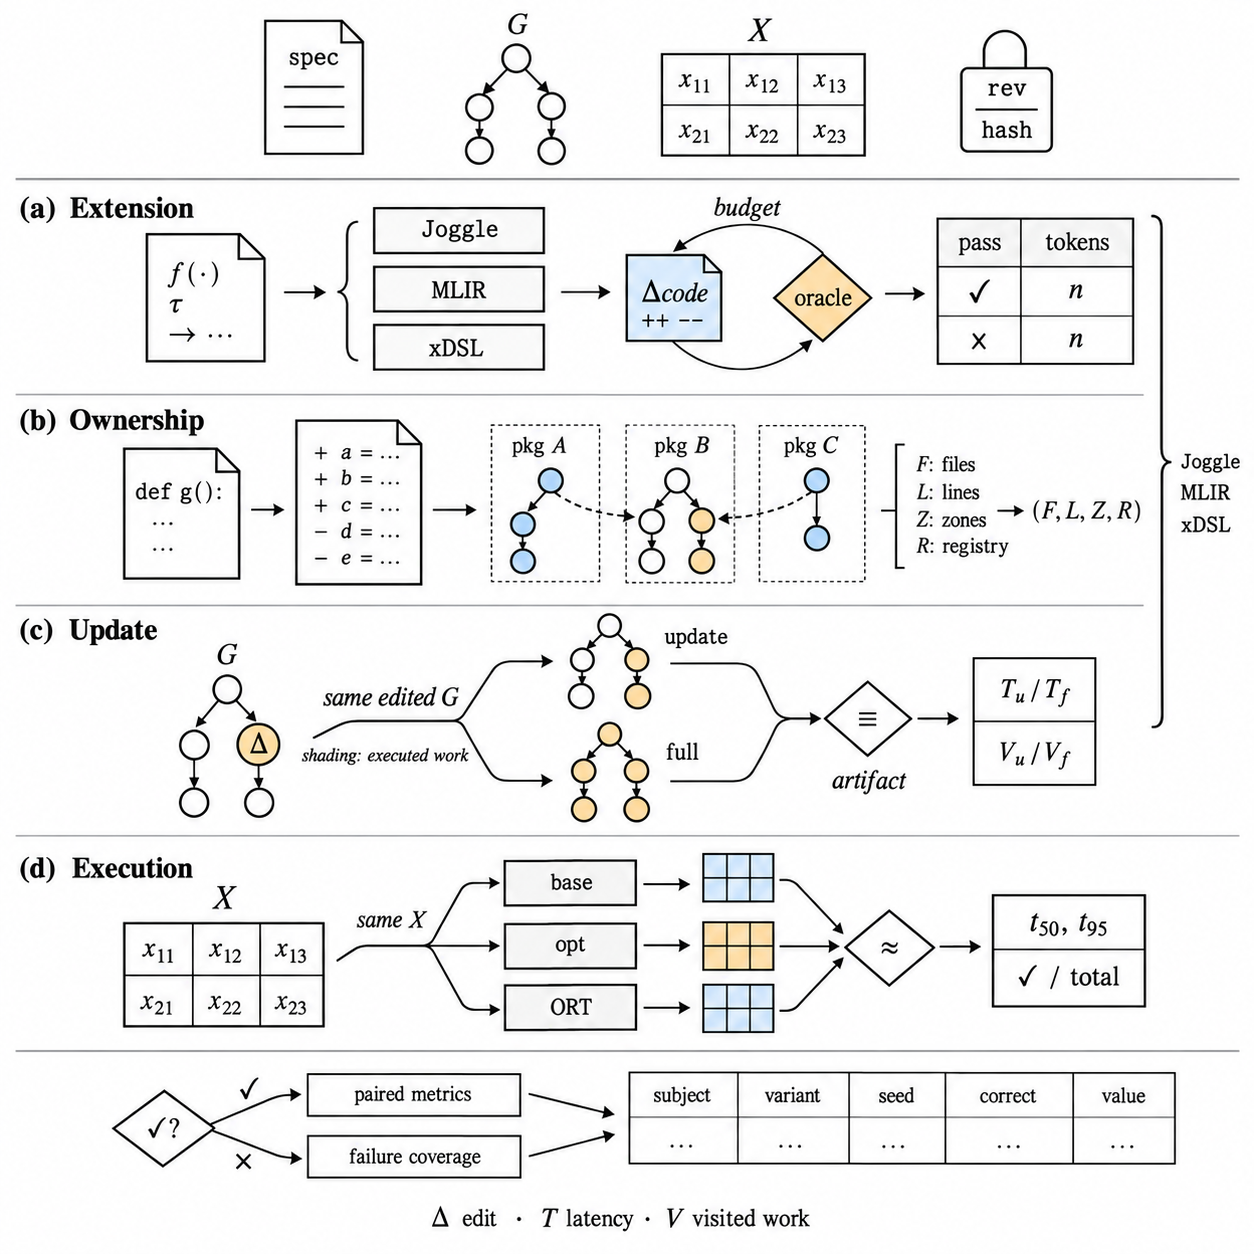
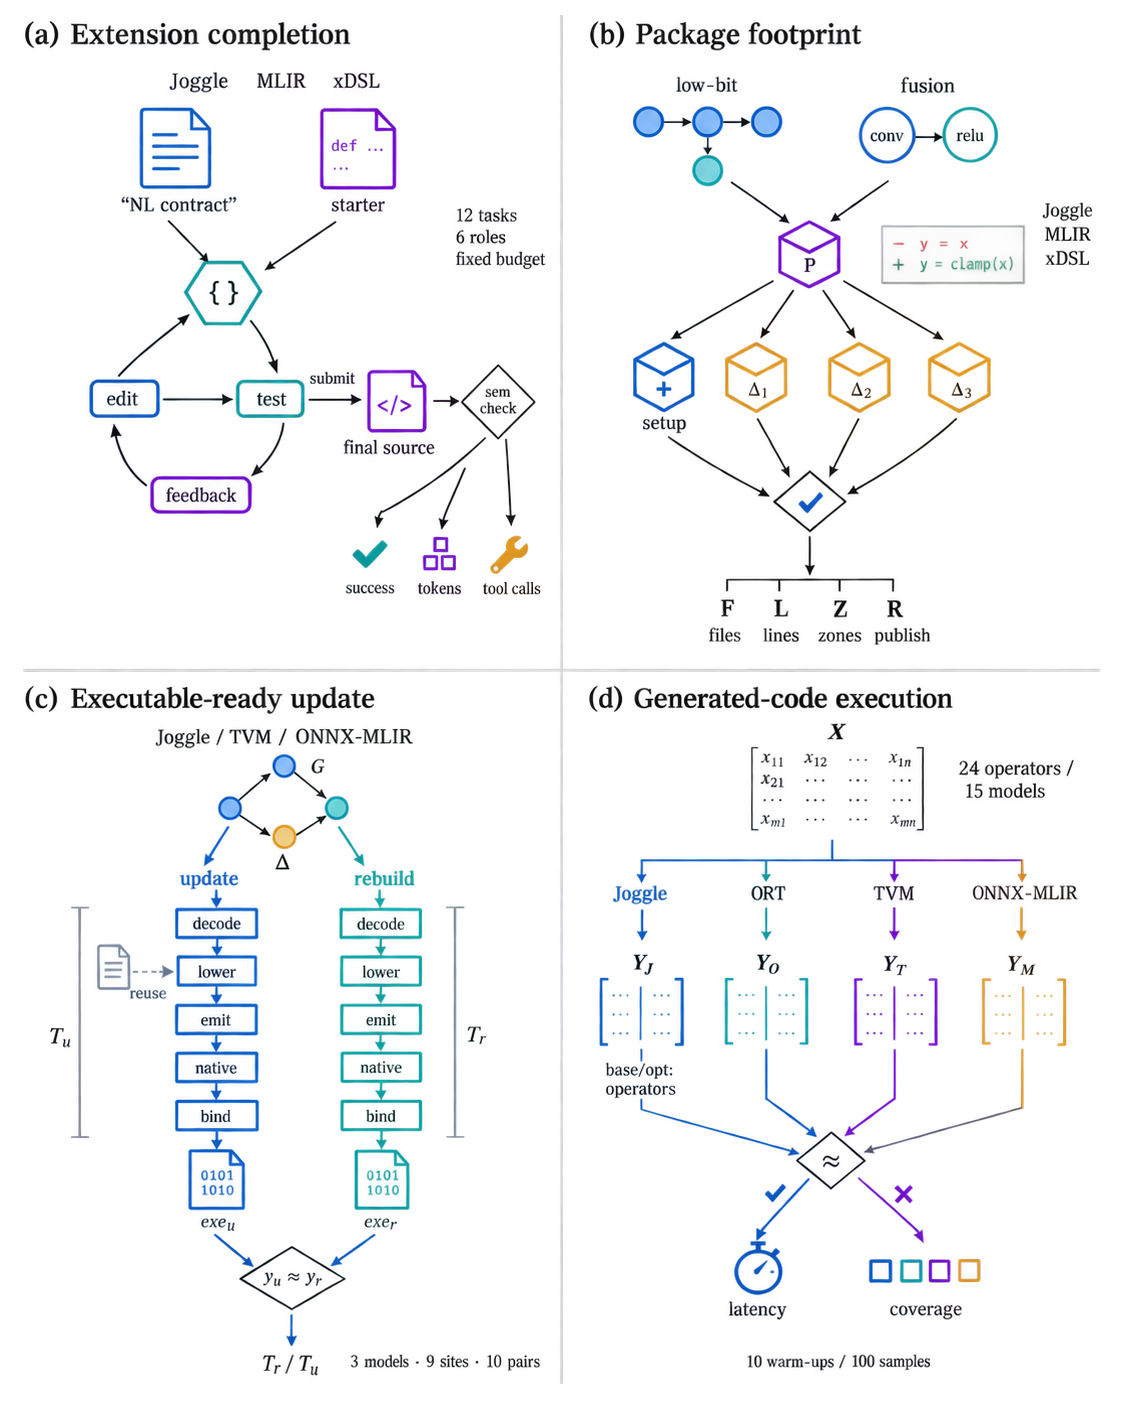
paper: compact comparison table and distinguish evaluation workflows

diff --git a/paper/sections/05-related-work.tex b/paper/sections/05-related-work.tex
@@ -1,40 +1,57 @@
 \section{Related Work}
 \label{sec:related}
 
-Table~\ref{tab:related} compares compiler and incremental systems by their
-programmable units, composition boundaries, and dependency mechanisms.
+Table~\ref{tab:related} places extension interfaces, ownership boundaries, and
+update mechanisms side by side. Its final rows connect these abstractions to
+the measured cost of integrating the two cross-stage packages in
+Section~\ref{sec:eval-controllable}.
 
 \begin{table*}[t]
-  \caption{Programmable units and dependency mechanisms. The two bands share
-  comparison dimensions; entries name mechanisms rather than capability scores.}
+  \caption{Extension and update mechanisms, with package integration footprints.
+  Numeric pairs report low-bit arithmetic / convolution fusion.
+  $\checkmark$: separate registration code; $\times$: none;
+  ---: not measured. Source counts include publication declarations.}
   \label{tab:related}
-  \normalsize
-  \setlength{\tabcolsep}{4pt}
-  \renewcommand{\arraystretch}{1.08}
-  \begin{tabularx}{\textwidth}{@{}>{\raggedright\arraybackslash}p{0.14\textwidth}*{5}{>{\raggedright\arraybackslash}X}@{}}
+  \fontsize{8}{10}\selectfont
+  \setlength{\tabcolsep}{2.4pt}
+  \renewcommand{\arraystretch}{1.13}
+  \definecolor{ComparisonBlue}{RGB}{0,82,128}
+  \definecolor{ComparisonTint}{RGB}{239,248,251}
+  \newcommand{\workref}[2]{\mbox{#1\textsuperscript{\cite{#2}}}}
+  \newcommand{\groupname}[1]{\multicolumn{10}{@{}l@{}}{\color{ComparisonBlue}\bfseries #1}\\[-1pt]}
+  \begin{tabular*}{\textwidth}{@{\extracolsep{\fill}}l*{8}{c}>{\columncolor{ComparisonTint}\bfseries}c@{}}
     \toprule
-    & MLIR\newline\cite{lattner2021mlir,mlirpass}
-    & xDSL\newline\cite{fehr2025xdsl}
-    & TVM\newline\cite{chen2018tvm,feng2022tensorir}
-    & Exo 2\newline\cite{ikarashi2025exo2} & \textbf{Joggle} \\
+    & \workref{MLIR}{lattner2021mlir}
+    & \workref{xDSL}{fehr2025xdsl}
+    & \workref{TVM}{chen2018tvm}
+    & \workref{Exo 2}{ikarashi2025exo2}
+    & \workref{Transform}{lucke2025transform}
+    & \workref{egg}{willsey2021egg}
+    & \workref{rustc}{rustcincremental}
+    & \workref{Adapton}{hammer2014adapton}
+    & \textcolor{ComparisonBlue}{Joggle} \\
     \midrule
-    Programming & C++ / ODS & Python & Python / C++ & Python & \textbf{Typed jog calls} \\
-    Composition & Dialects, passes & Dialects, passes & Tensor programs, schedules & Scheduling libraries & \textbf{Cross-stage mods} \\
-    References & Operations, values & Operations, values & Tensor blocks & Cursors & \textbf{Typed graph handles} \\
-    Dependency mechanism & Analysis preservation & SSA use-def links & Dataflow, schedules & Cursor forwarding & \textbf{Reads, effects, revisions} \\
+    \groupname{Interfaces}
+    Extension language & C++/ODS & Python & Py/C++ & Python & IR & Rust & Rust & Host & jog \\
+    Programmable unit & Operation & Operation & Block & Schedule & Transform & Rewrite & Query & Thunk & Function \\
+    \addlinespace[2pt]
+    \groupname{Ownership}
+    Composition unit & Dialect & Dialect & Program & Library & Sequence & Rule set & Query & Thunk & mod \\
+    References & Values & Values & Blocks & Cursors & Handles & E-classes & Keys & Thunks & Typed handles \\
+    \addlinespace[2pt]
+    \groupname{Updates}
+    Dependency carrier & Analysis & SSA links & Dataflow & Cursor & Handle & E-class & Query DAG & Demand DAG & Read/effect \\
+    Change mechanism & Preserve & Use-def & Schedule & Forward & Effects & Rebuild & Red-green & Demand & Revision \\
     \midrule
-    & Transform\newline\cite{lucke2025transform}
-    & \texttt{egg}\newline\cite{willsey2021egg}
-    & rustc\newline\cite{rustcincremental}
-    & Adapton\newline\cite{hammer2014adapton}
-    & Build systems\newline\cite{mokhov2018build} \\
-    \midrule
-    Programming & Transform IR & Rust rules & Rust queries & Host-language API & Task rules \\
-    Composition & Transform operations & Rewrite rules & Query calls & Thunk calls & Build rules \\
-    References & Payload handles & E-classes & Query keys & Thunks & Task keys \\
-    Dependency mechanism & Handle effects & E-class rebuilding & Red-green query DAG & Demanded computation graph & Task dependency graph \\
+    \groupname{Measured package integration (Section~\ref{sec:eval-controllable})}
+    Source files $\downarrow$ & 3 / 3 & 3 / 3 & --- & --- & --- & --- & --- & --- & 1 / 1 \\
+    Source lines $\downarrow$ & 193 / 178 & 122 / 125 & --- & --- & --- & --- & --- & --- & 69 / 77 \\
+    Registration code & $\checkmark$ & $\checkmark$ & --- & --- & --- & --- & --- & --- & $\times$ \\
     \bottomrule
-  \end{tabularx}
+  \end{tabular*}
+  \par\vspace{2pt}\raggedright
+  The mechanism rows describe the cited abstraction; the numeric rows compare
+  native packages implementing the same two features.
 \end{table*}
 
 \subsection{Compiler Construction and Composition}

diff --git a/paper/sections/04-evaluation.tex b/paper/sections/04-evaluation.tex
@@ -56,12 +56,14 @@ aggregating measurements.
 \begin{figure}[!tbp]
   \centering
   \includegraphics[width=\columnwidth]{figures/evaluation-workflow.png}
-  \caption{Four paired comparisons. Shared specifications, edited graphs,
-  and tensors align inputs; correctness gates measurements while failures
-  remain in coverage. Update shading denotes executed work.}
-  \Description{Four compact experiment lanes show agent repair, patch
-  footprint, paired update and full rerun, and numerical execution comparison.
-  Passing and failing cases are both retained in source records.}
+  \caption{Experimental protocols. Package edits share one parent; update
+  timing includes native compilation and binding. The reuse path denotes
+  Joggle's prepared bodies. Correct outputs enter latency ratios; all outcomes
+  enter coverage.}
+  \Description{Four independent panels depict an agent repair loop, package
+  edits branching from the same parent, paired vertical compilation timelines,
+  and parallel backend execution. Measurements retain both successful and
+  failed cases, with latency ratios formed only from correct outputs.}
   \label{fig:eval-workflow}
 \end{figure}
 

diff --git a/paper/sigconf.tex b/paper/sigconf.tex
@@ -31,6 +31,7 @@
 \usepackage{algpseudocode}
 \usepackage{amsmath}
 \usepackage{tabularx}
+\usepackage{colortbl}
 
 %% Keep a full-column diagram and a long algorithm out of the same top stack.
 \setcounter{topnumber}{1}

diff --git a/paper/README.md b/paper/README.md
@@ -640,23 +640,30 @@ Figure 6 shows the paired design: shared feature specifications for extension
 and ownership, the same edited graph for updates, and identical tensors for
 execution. Each path checks correctness before aggregating measurements.
 
-<!-- FIGURE 6 PROMPT — evaluation-workflow.png. Original dense square
-single-column protocol schematic, fine black rules, white background, small
-serif math labels and monospace annotations. Independent source glyphs for
-specification, graph G, tensor X and revision/hash. Four compact rows:
-(a) native function/type specification → Joggle/MLIR/xDSL → budgeted code/oracle
-repair loop → pass/tokens; (b) feature patch hunks and package dependency
-boundaries → (F,L,Z,R); (c) same edited G forks into update/full compilation,
-replacement executables and output-tensor check → Tu and Tu/Tf;
-(d) same X forks into Joggle/ORT/TVM/ONNX-MLIR, numerical comparison →
-median/p95 and correct/total. Label extension and ownership rows
-Joggle/MLIR/xDSL; label update row Joggle/TVM/ONNX-MLIR. Success/failure branches
-both retain CSV records. This is a protocol, not numerical results. No
-fabricated bar charts, percentages, prose boxes, large headers or gradients. -->
+<!-- FIGURE 6 PROMPT — evaluation-workflow.png. Built-in image generation.
+Create a NEW original technical figure showing four compiler evaluation protocols. Borrow ONLY this palette: dark blue #0057B8, teal #12B5B0, purple #7928CA, amber #E6AD48. No reference layout is supplied or should be imitated.
 
-*Figure 6: Four paired comparisons. Shared specifications, edited graphs,
-and tensors align inputs; correctness gates measurements while failures
-remain in coverage. Update shading denotes executed work.*
+ORIGINAL LAYOUT: a compact 2-by-2 set of four experiment vignettes on a single pure white portrait canvas, aspect ratio 4:5. Small neutral black serif panel headings (a), (b), (c), (d). A very thin light-gray vertical divider and a short horizontal divider separate quadrants. NO panel boxes, NO colored panel fills, NO table grid, NO column headings, NO full-width header or footer, NO problem/solution rows, NO repeated rectangular card frames. Each vignette has its OWN scientifically meaningful internal topology with mostly TOP-TO-BOTTOM flow. Precise fine strokes, small black serif/math labels, compact monospace micro-annotations, tiny graph symbols. All forms 2D, flat, fully opaque, white background. No black filled regions, no shadows, no texture, no photographic decoration. Information-dense, almost no empty margins.
+
+TOP LEFT (a) "Extension completion":
+At top place three tiny unboxed system names "Joggle   MLIR   xDSL". Then a small quoted document “NL contract” beside a tiny code document “starter”. They converge on an agent represented ONLY by a small outlined hexagon with {} inside, not a big cartoon robot. Below, a compact triangular directed loop: “edit” -> “test” -> “feedback” -> “edit”. At the test node a rightward exit labelled “submit” leads to a final source-file symbol, then a small semantic-check diamond. Beneath it three aligned tiny outputs labelled “success”, “tokens”, “tool calls”, with checkmark, token-square, and wrench symbols respectively. Tiny side annotations “12 tasks”, “6 roles”, “fixed budget”. No invented outcomes or fake result rows.
+
+TOP RIGHT (b) "Package footprint":
+Two small input symbols at top: an operator graph labelled “low-bit” and a tiny conv->relu graph labelled “fusion”. Under them a small outline package symbol P. From P, visibly fork FOUR independent arrows: one to a tiny plus-marked package labelled “setup”, three to tiny amber-diff packages labelled “Δ1”, “Δ2”, “Δ3”. These are independent changes, not a chain. Each package output connects to a shared oracle diamond with a small checkmark. Below show a very compact four-column tally strip “F  L  Z  R” and directly below “files  lines  zones  publish”. Side annotation “Joggle / MLIR / xDSL”. Include a tiny two-line code diff + / −, no fabricated numeric measurements, no .cpp or .mlir filenames.
+
+BOTTOM LEFT (c) "Executable-ready update":
+At top “Joggle / TVM / ONNX-MLIR” in tiny type and a small four-node directed diamond DAG G with one amber node Δ.
+Fork the edited graph into TWO VERTICAL TRACKS, left labelled “update”, right “rebuild”. EACH track has a sequence of FIVE tiny rectangular stage glyphs labelled “decode”, “lower”, “emit”, “native”, “bind”. Draw small blue/teal accents along both paths; a small gray prepared-body icon joins ONLY the update track at “lower”, labelled “reuse”. Enclose neither track in a big box. Instead draw slim vertical timing brackets BESIDE the full tracks from decode through bind, labelled Tᵤ and Tᵣ. Each track ends in its own executable symbol. Both converge on an output-check diamond “yᵤ ≈ yᵣ”. Bottom output “Tᵣ / Tᵤ”. Tiny footnote “3 models · 9 sites · 10 pairs”. Do not omit native compile or binding. The reuse icon illustrates Joggle's prepared bodies, not a claim about all backends.
+
+BOTTOM RIGHT (d) "Generated-code execution":
+At top a small matrix X, with side note “24 operators / 15 models”. X fans out to FOUR short VERTICAL parallel paths, with narrow backend labels “Joggle”, “ORT”, “TVM”, “ONNX-MLIR” placed horizontally above the paths, do not rotate text. Each path ends in its own small output matrix Y. All four output matrices merge at a diamond “≈”. From the diamond branch downward: checkmark path to a stopwatch icon “latency”; BOTH check and cross paths to four little outlined squares “coverage”. Beneath, tiny micro-annotation “10 warm-ups / 100 samples”. A very small label under the Joggle path “base/opt: operators”. No data charts or made-up numerical results.
+
+The four different flow topologies must be unmistakable: a repair LOOP, an independent-edit FAN-OUT, two paired VERTICAL TIMELINES, and parallel backend EXECUTION PATHS. This is not a capability comparison diagram and must not resemble a 3-column challenge-solution-benefit table. Keep balanced aligned quadrants but do not force every quadrant into one shared input/procedure/output template. Use small typography and compact layout. Render only the figure, without caption.
+-->
+
+*Figure 6: Experimental protocols. Package edits share one parent; update
+timing includes native compilation and binding. The reuse path denotes Joggle's
+prepared bodies. Correct outputs enter latency ratios; all outcomes enter coverage.*
 
 ### 4.2 Agent Extension Completion
 
@@ -951,25 +958,31 @@ separately.
 
 ## 5. Related Work
 
-Table 2 compares compiler and incremental systems by their programmable
-units, composition boundaries, and dependency mechanisms.
+Table 2 places extension interfaces, ownership boundaries, and update mechanisms
+side by side. Its final rows connect these abstractions to the measured cost of
+integrating the two cross-stage packages in Section 4.3.
 
-| Dimension | MLIR [@lattner2021mlir; @mlirpass] | xDSL [@fehr2025xdsl] | TVM [@chen2018tvm; @feng2022tensorir] | Exo 2 [@ikarashi2025exo2] | **Joggle** |
-| --- | --- | --- | --- | --- | --- |
-| Programming | C++ / ODS | Python | Python / C++ | Python | **Typed jog calls** |
-| Composition | Dialects, passes | Dialects, passes | Tensor programs, schedules | Scheduling libraries | **Cross-stage mods** |
-| References | Operations, values | Operations, values | Tensor blocks | Cursors | **Typed graph handles** |
-| Dependency mechanism | Analysis preservation | SSA use-def links | Dataflow, schedules | Cursor forwarding | **Reads, effects, revisions** |
+| Dimension | MLIR [@lattner2021mlir; @mlirpass] | xDSL [@fehr2025xdsl] | TVM [@chen2018tvm; @feng2022tensorir] | Exo 2 [@ikarashi2025exo2] | Transform [@lucke2025transform] | egg [@willsey2021egg] | rustc [@rustcincremental] | Adapton [@hammer2014adapton] | **Joggle** |
+| --- | --- | --- | --- | --- | --- | --- | --- | --- | --- |
+| **Interfaces** | | | | | | | | | |
+| Extension language | C++/ODS | Python | Py/C++ | Python | IR | Rust | Rust | Host | **jog** |
+| Programmable unit | Operation | Operation | Block | Schedule | Transform | Rewrite | Query | Thunk | **Function** |
+| **Ownership** | | | | | | | | | |
+| Composition unit | Dialect | Dialect | Program | Library | Sequence | Rule set | Query | Thunk | **mod** |
+| References | Values | Values | Blocks | Cursors | Handles | E-classes | Keys | Thunks | **Typed handles** |
+| **Updates** | | | | | | | | | |
+| Dependency carrier | Analysis | SSA links | Dataflow | Cursor | Handle | E-class | Query DAG | Demand DAG | **Read/effect** |
+| Change mechanism | Preserve | Use-def | Schedule | Forward | Effects | Rebuild | Red-green | Demand | **Revision** |
+| **Measured package integration** | | | | | | | | | |
+| Source files ↓ | 3 / 3 | 3 / 3 | — | — | — | — | — | — | **1 / 1** |
+| Source lines ↓ | 193 / 178 | 122 / 125 | — | — | — | — | — | — | **69 / 77** |
+| Registration code | ✓ | ✓ | — | — | — | — | — | — | **×** |
 
-| Dimension | Transform [@lucke2025transform] | egg [@willsey2021egg] | rustc [@rustcincremental] | Adapton [@hammer2014adapton] | Build systems [@mokhov2018build] |
-| --- | --- | --- | --- | --- | --- |
-| Programming | Transform IR | Rust rules | Rust queries | Host-language API | Task rules |
-| Composition | Transform operations | Rewrite rules | Query calls | Thunk calls | Build rules |
-| References | Payload handles | E-classes | Query keys | Thunks | Task keys |
-| Dependency mechanism | Handle effects | E-class rebuilding | Red-green query DAG | Demanded computation graph | Task dependency graph |
-
-*Table 2: Programmable units and dependency mechanisms. The two bands share
-comparison dimensions; entries name mechanisms rather than capability scores.*
+*Table 2: Extension and update mechanisms, with package integration footprints.
+Numeric pairs report low-bit arithmetic / convolution fusion. ✓: separate
+registration code; ×: none; —: not measured. Source counts include publication
+declarations. The mechanism rows describe the cited abstraction; the numeric
+rows compare native packages implementing the same two features.*
 
 ### 5.1 Compiler Construction and Composition
 

diff --git a/paper/SUBMISSION.md b/paper/SUBMISSION.md
@@ -63,8 +63,11 @@ integration difference and the equal maintenance file/ownership counts.
 Figure 7 separates integration files, integration lines, and maintenance lines
 in a six-panel display. Appendix E adds complete footprints (A.13), native
 installation files (A.14), and six worked maintenance input/output pairs (A.15).
-The related-work table places ten systems/frameworks across two horizontal
-bands and names their composition and dependency mechanisms. The main PDF
+The related-work table places nine systems/frameworks in one horizontal band,
+with grouped interface, ownership, and update rows. Its measured integration
+rows show source files, source lines, and separate registration code for the
+two native packages; other systems are marked unmeasured. Figure 6 uses four
+independent protocol vignettes, distinct from the author's 3v3 overview. The main PDF
 now cites 48 sources. The literature expansion covers IRDL, LMS, AnyDSL,
 Exo, Ansor, TASO, Mirage, PluS, egglog, self-adjusting computation, IncA,
 SWE-agent, Delite, Forge, Stratego, Lift, RISE/ELEVATE, guided equality
